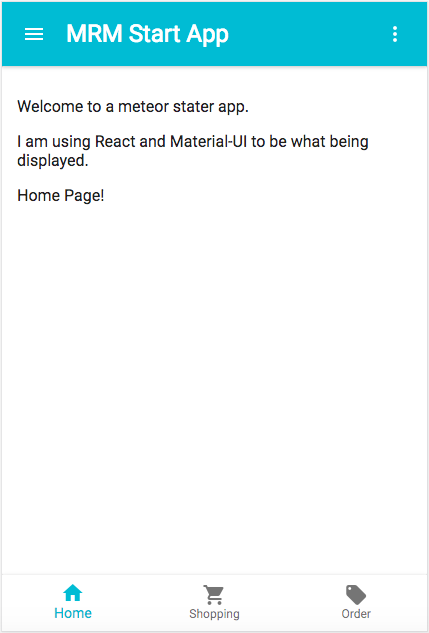
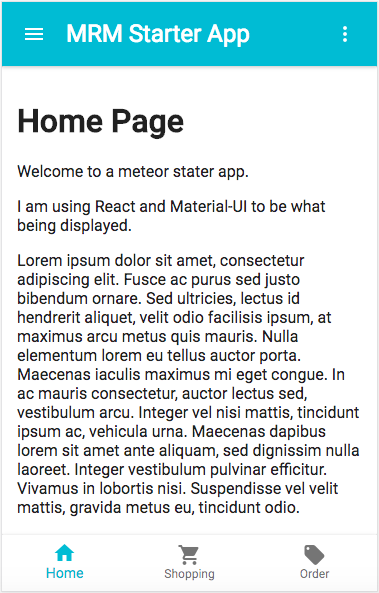
update more detailed guides

diff --git a/imports/ui/components/TopBar/TopBar.js b/imports/ui/components/TopBar/TopBar.js
@@ -32,7 +32,7 @@ class TopBar extends Component {
       <Paper>
         {/* Main Application Bar */}
         <AppBar
-          title="MRM Start App"
+          title="MRM Starter App"
           iconElementRight={
             <IconButton>
               <FontIcon className="material-icons">more_vert</FontIcon>

diff --git a/README.md b/README.md
@@ -6,7 +6,9 @@ This project is to create a codebase for every app use stack Meteor + React + Ma
 
 <img src="https://github.com/manhhailua/meteor-react-mui-starter-app/raw/master/public/screen-shot.png" alt="mobile-screen-shot" />
 
-## Installation
+## Guides
+
+#### Installation
 
 Ensure that you have `git` and `meteor` installed.
 
@@ -21,6 +23,30 @@ meteor yarn install
 
 meteor
 ```
+
+Now you are good to go developing your new app.
+
+#### Testing
+
+Current testing stack is: Mocha - Chai - Enzyme.
+
+To start testing as you type:
+
+```
+meteor yarn run test
+```
+
+In case you want to run the test just once:
+
+```
+meteor yarn run test:once
+```
+
+#### Styling
+
+SASS was integrated into this repo. So, you can use [sass](http://sass-lang.com/) or pure css in your own way.
+
+If you choose SASS for your app, please `@import` them to `/client/main.scss` or `/imports/ui/components/App/App.scss`. Do not directly import `.scss` file to your component, that causes testing failures and breaks sass global variables.
 
 ## Author
 
